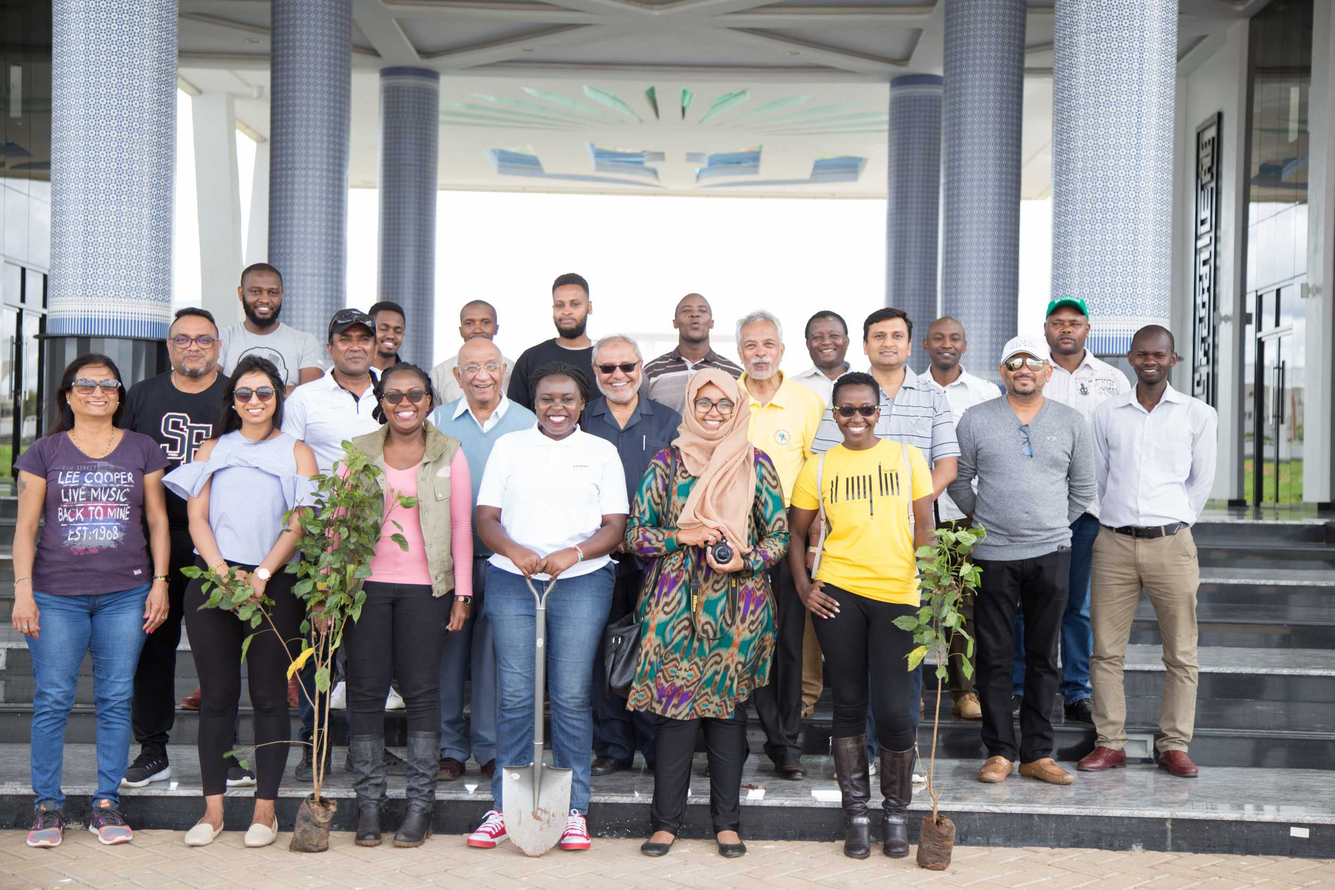
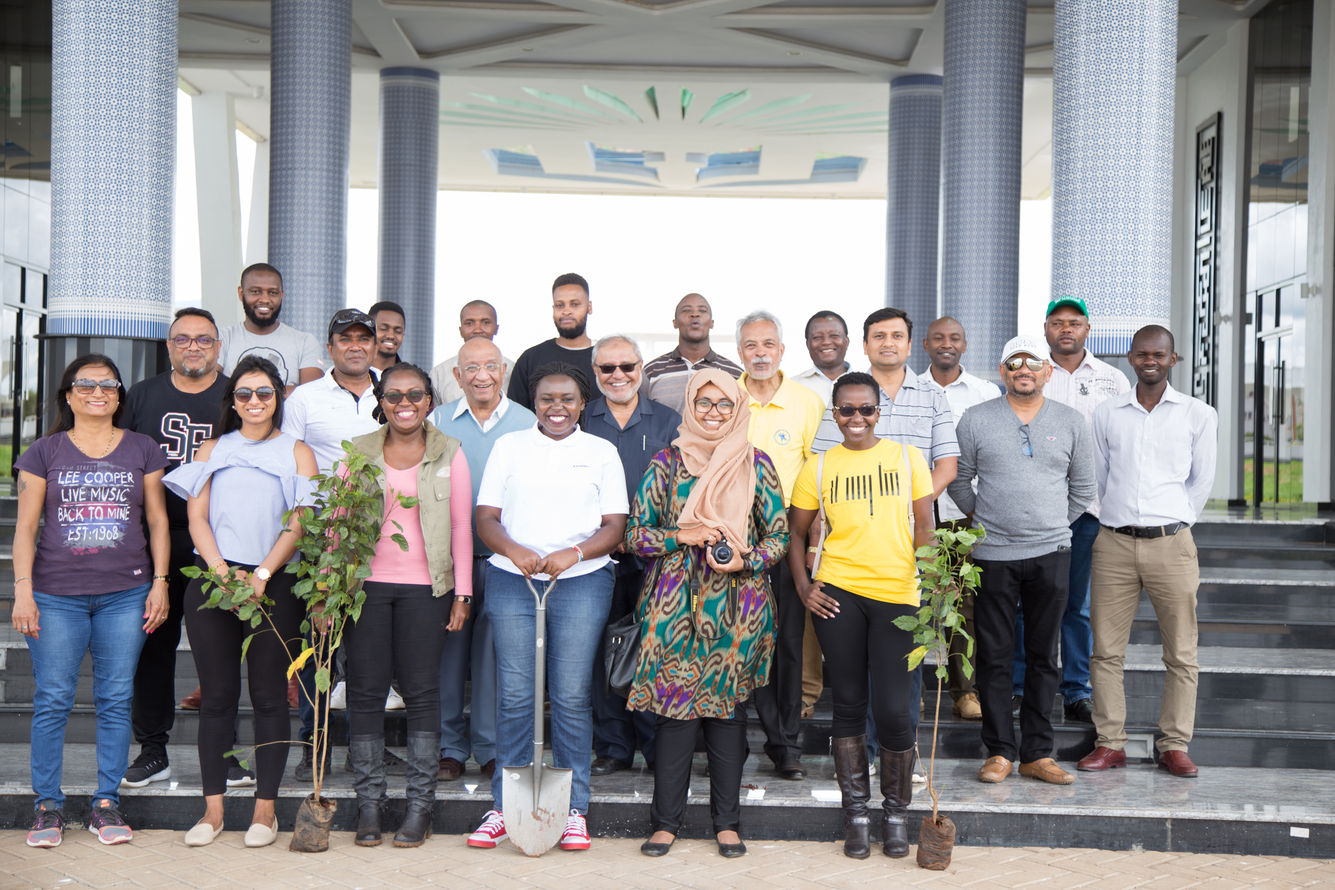
Updated image for quality policy statement

diff --git a/about/quality_policy/index.html b/about/quality_policy/index.html
@@ -360,7 +360,7 @@ value="Search">
     </div>
 
     <!--Hero Image Desktop-->
-    <img src="../../wp-content/narrow_images/purpose2.jpg" class="img-fluid w-100 h-50" alt="Responsive image">
+    <img src="../../wp-content/narrow_images/gallery8.jpg" class="img-fluid w-100 h-50" alt="Responsive image">
     <!--Hero Image Mobile-->
 
 	<!--Page Content-->
